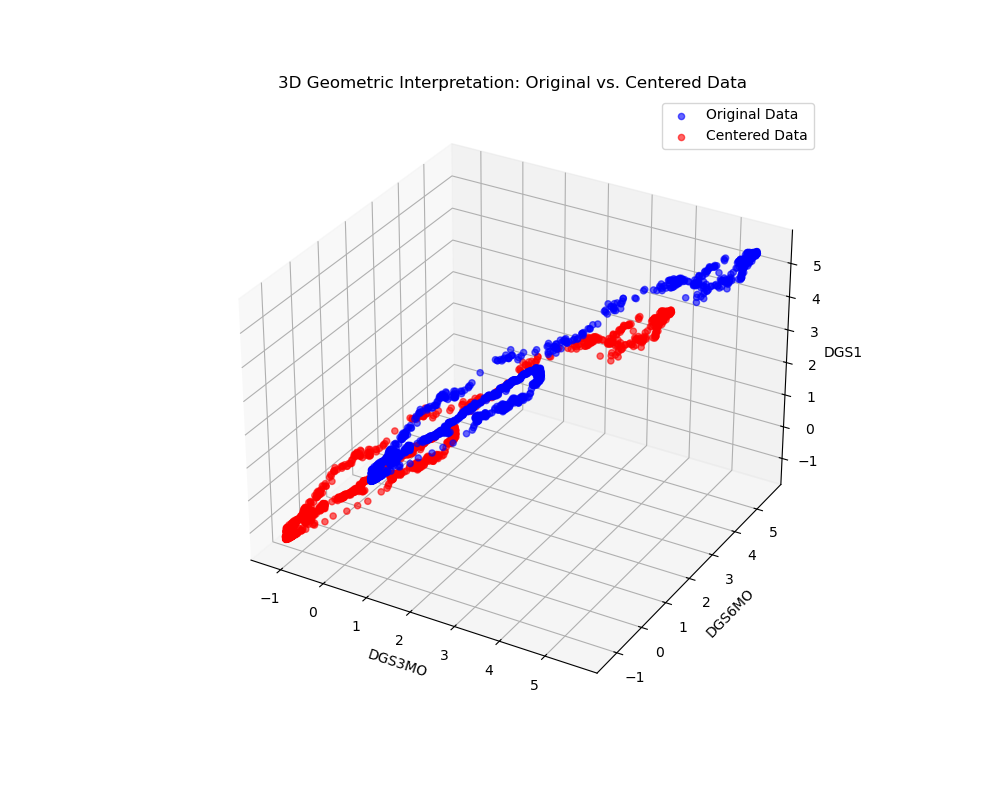
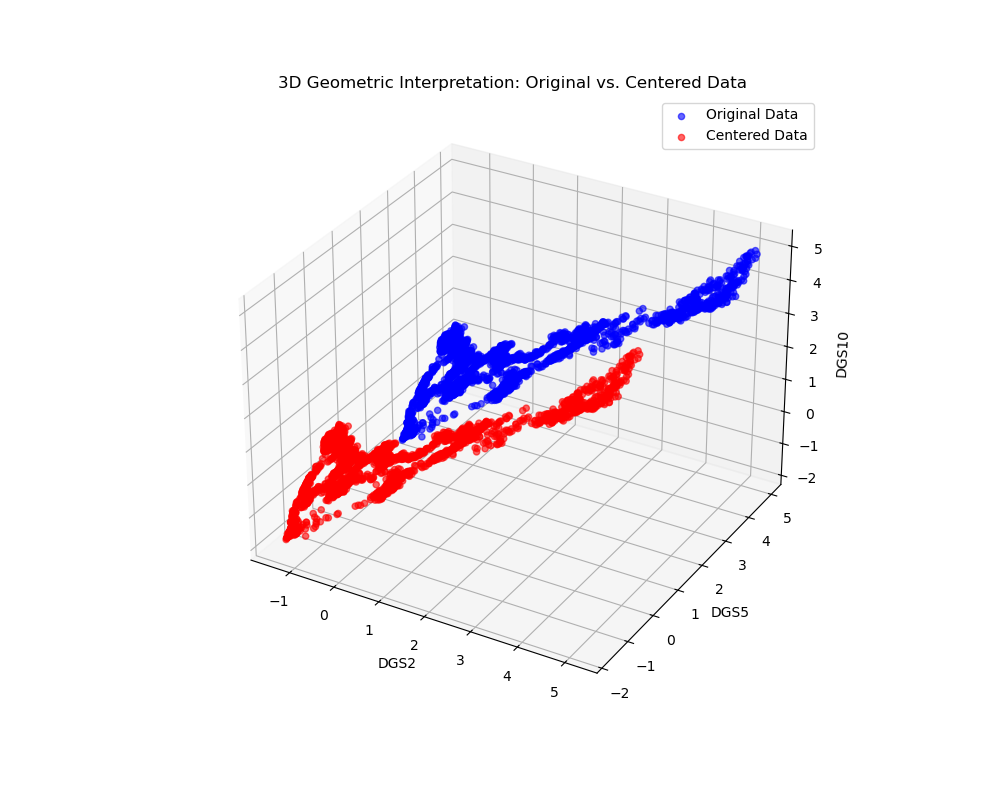
updated pca_visualization to look at 2Y/10Y as opposed to 3MO/6MO

diff --git a/src/pca_visualizations.py b/src/pca_visualizations.py
@@ -92,74 +92,13 @@ def projection_visualization_3d(data):
     plt.savefig("visuals/3d_projection_with_arrows.png")
     plt.show()
 
-# PC3 Mean-Reversion Visualization with Enhanced Overlay and Correlation Analysis
-def pc3_mean_reversion_visualization(data, vix, policy_changes):
-    # Align all data to the same timeline (2013-2023)
-    start_date = "2013-01-01"
-    end_date = "2023-12-31"
-    data = data.loc[start_date:end_date]
-    vix = vix.loc[start_date:end_date]
-    policy_changes = policy_changes[(policy_changes['Date'] >= start_date) & (policy_changes['Date'] <= end_date)]
+# Example usage
+if __name__ == "__main__":
+    # Load data
+    yield_curve_data = load_yield_curve_data("data/yield_curve_data.csv")
 
-    # Check if data is loaded correctly
-    if data.empty or vix.empty or policy_changes.empty:
-        print("❌ One or more data frames are empty. Please check data loading.")
-        return
-    else:
-        print("✅ All data frames are loaded correctly.")
-        print(f"PC3 data sample:\n{data.head()}")
-        print(f"VIX data sample:\n{vix.head()}")
-        print(f"Policy change data sample:\n{policy_changes.head()}")
-
-    plt.figure(figsize=(14, 12))
-
-    # Main PC3 and VIX Plot (Overlay)
-    ax1 = plt.subplot(3, 1, 1)
-    sns.lineplot(data=data, x=data.index, y='PC3', label="PC3 Dislocations", color="blue", linewidth=1.5)
-    sns.lineplot(data=data, x=data.index, y='VIX', label="VIX Index", color="purple", linestyle="--", linewidth=1.2)
-    plt.axhline(y=0, color='black', linestyle='--', linewidth=1, label="Mean Reversion Line")
-    plt.title("PC3 Dislocations and VIX Overlay with Policy Change Markers")
-    plt.xlabel("Date")
-    plt.ylabel("PC3 Dislocation / VIX Level")
-    plt.xlim(pd.to_datetime(start_date), pd.to_datetime(end_date))
-
-    # Highlight Policy Changes
-    for date in policy_changes['Date']:
-        plt.axvline(x=date, color='red', linestyle=':', linewidth=1, alpha=0.7, label="Policy Change" if date == policy_changes['Date'].iloc[0] else "")
-
-    plt.legend(loc='upper left')
-
-    # Rolling Correlation Plot
-    ax2 = plt.subplot(3, 1, 2)
-    rolling_corr = data['PC3'].rolling(window=30).corr(data['VIX'])
-    sns.lineplot(data=rolling_corr, label="30-Day Rolling Correlation (PC3 vs VIX)", color="green")
-    plt.title("Rolling Correlation between PC3 and VIX")
-    plt.xlabel("Date")
-    plt.ylabel("Correlation Coefficient")
-    plt.axhline(y=0, color='black', linestyle='--', linewidth=1)
-
-    # Correlation Coefficient Bar Plot by Market Regime
-    ax3 = plt.subplot(3, 1, 3)
-    regimes = data['Market Regime'].unique()
-    correlations = {}
-    for regime in regimes:
-        regime_data = data[data['Market Regime'] == regime]
-        correlation = regime_data['PC3'].corr(regime_data['VIX'])
-        correlations[regime] = correlation
-
-    sns.barplot(x=list(correlations.keys()), y=list(correlations.values()), palette="viridis")
-    plt.title("Correlation between PC3 and VIX by Market Regime")
-    plt.xlabel("Market Regime")
-    plt.ylabel("Correlation Coefficient")
-    plt.ylim(-1, 1)
-
-    plt.tight_layout()
-
-    # Save the plot to the visuals folder
-    output_path = "visuals/pc3_mean_reversion_enhanced_viz.png"
-    try:
-        plt.savefig(output_path, dpi=300)
-        print(f"✅ Visualization saved successfully to {output_path}")
-    except Exception as e:
-        print(f"❌ Error saving visualization: {e}")
-    plt.close()
+    # Generate visualizations using the correct maturities (2Y and 10Y)
+    geometric_interpretation_2d(yield_curve_data[['DGS2', 'DGS10']])
+    geometric_interpretation_3d(yield_curve_data[['DGS2', 'DGS5', 'DGS10']])
+    projection_visualization_2d(yield_curve_data[['DGS2', 'DGS10']])
+    projection_visualization_3d(yield_curve_data[['DGS2', 'DGS5', 'DGS10']])
